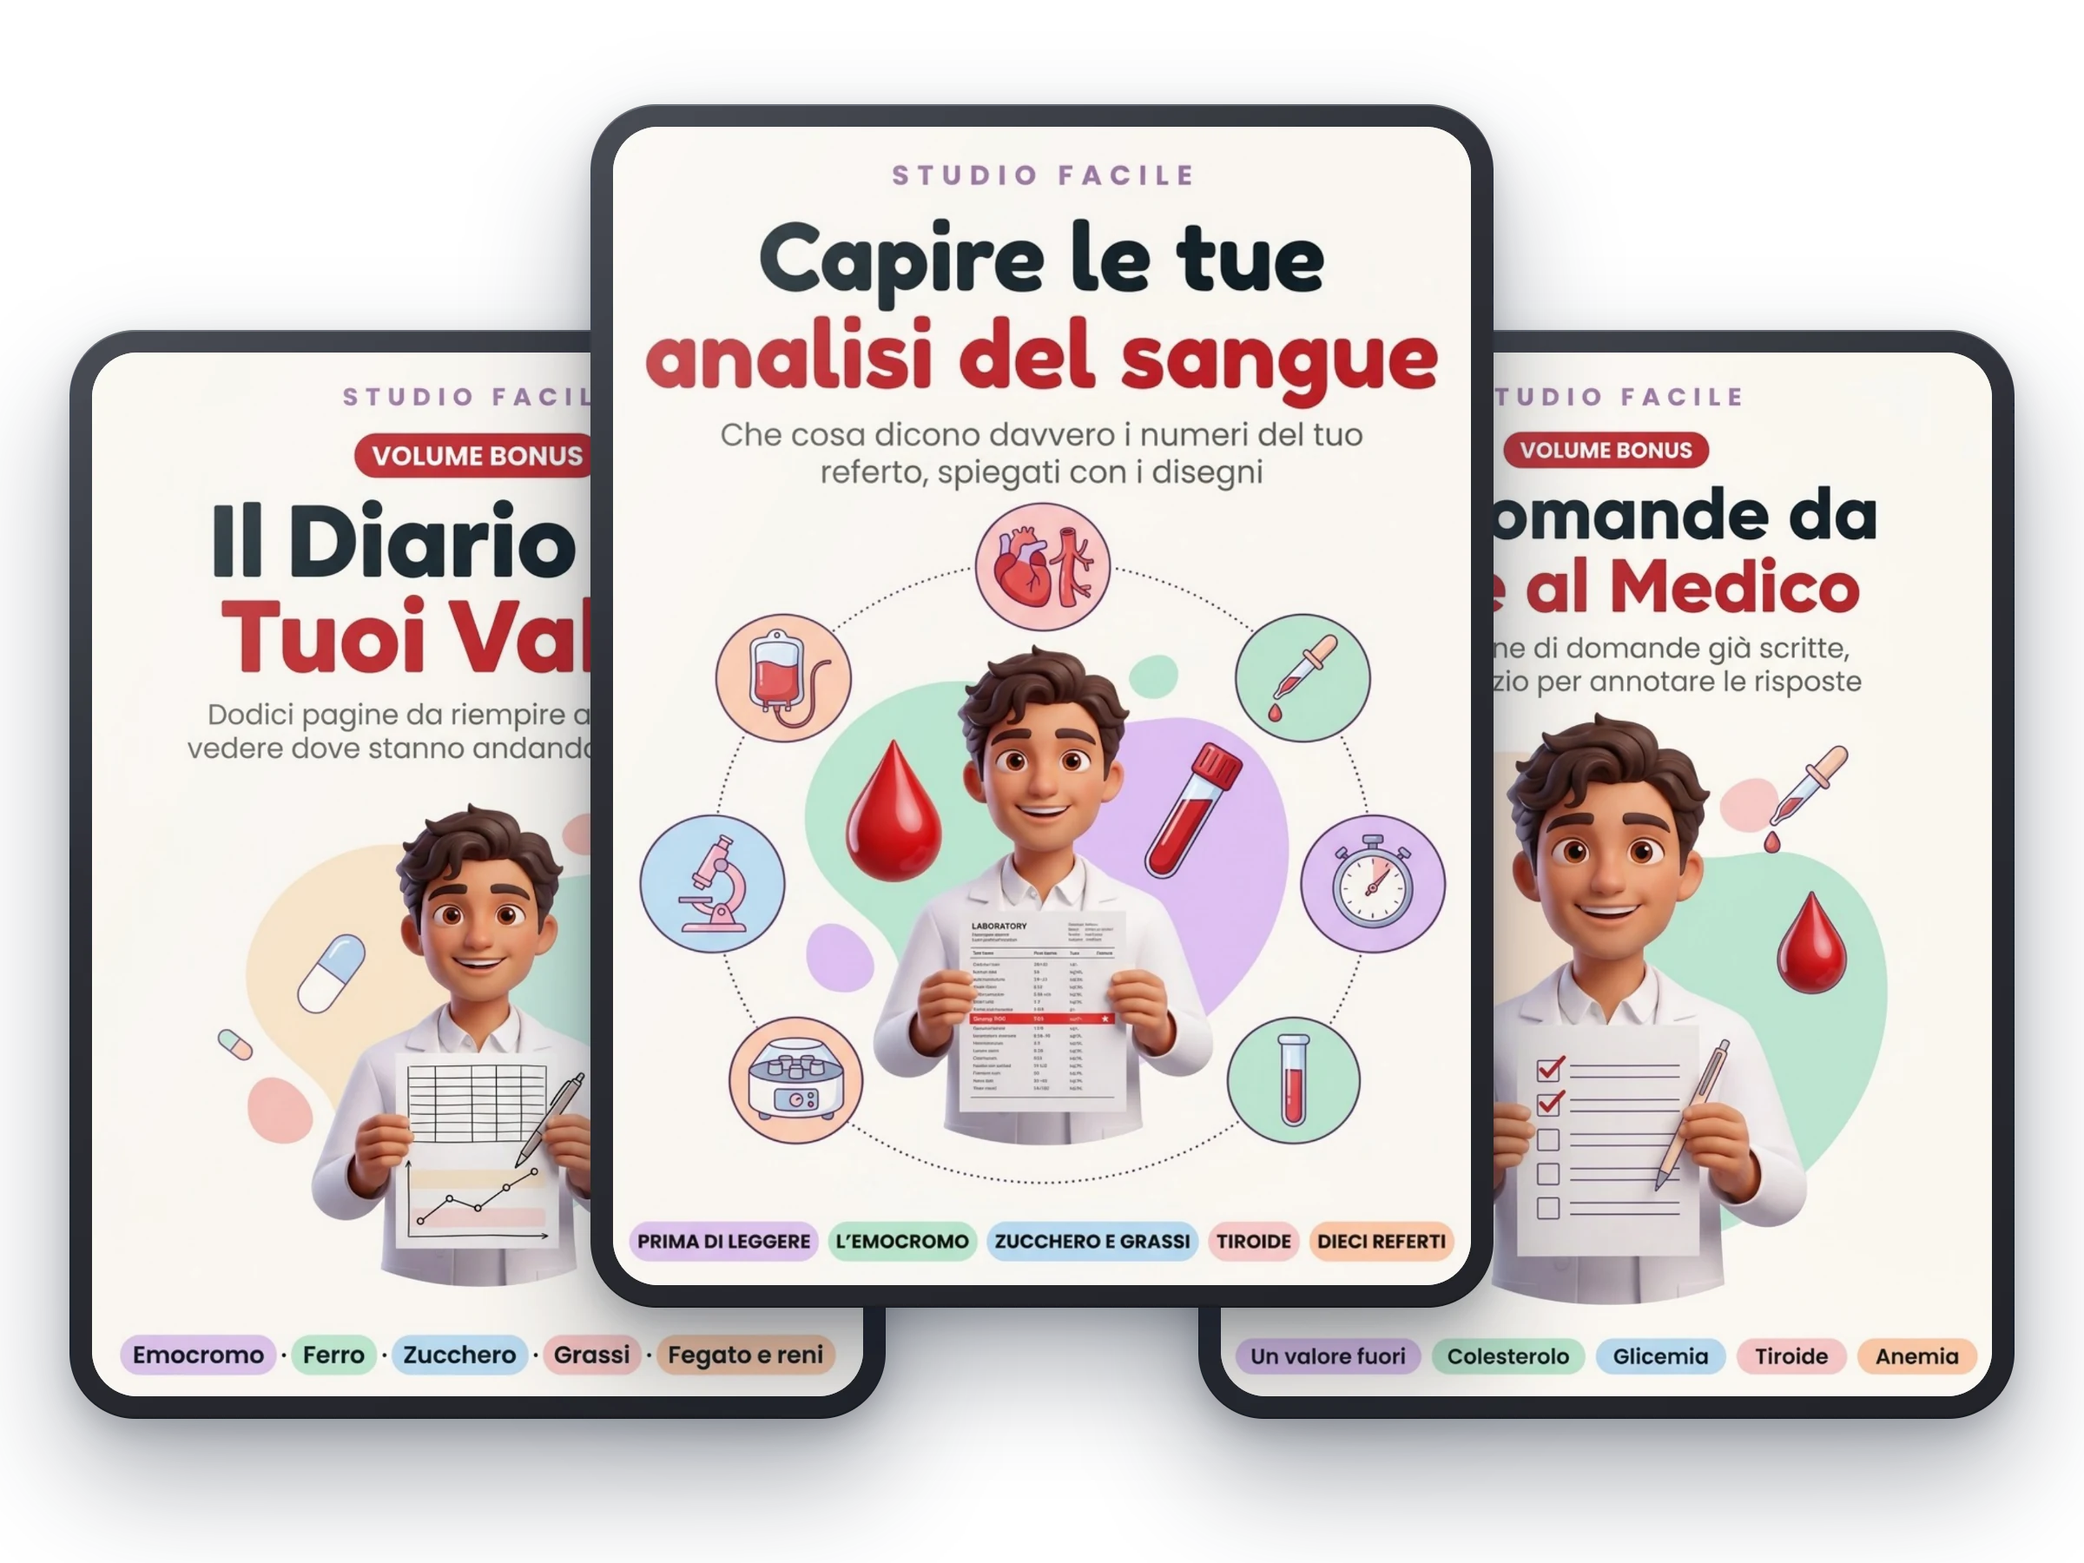
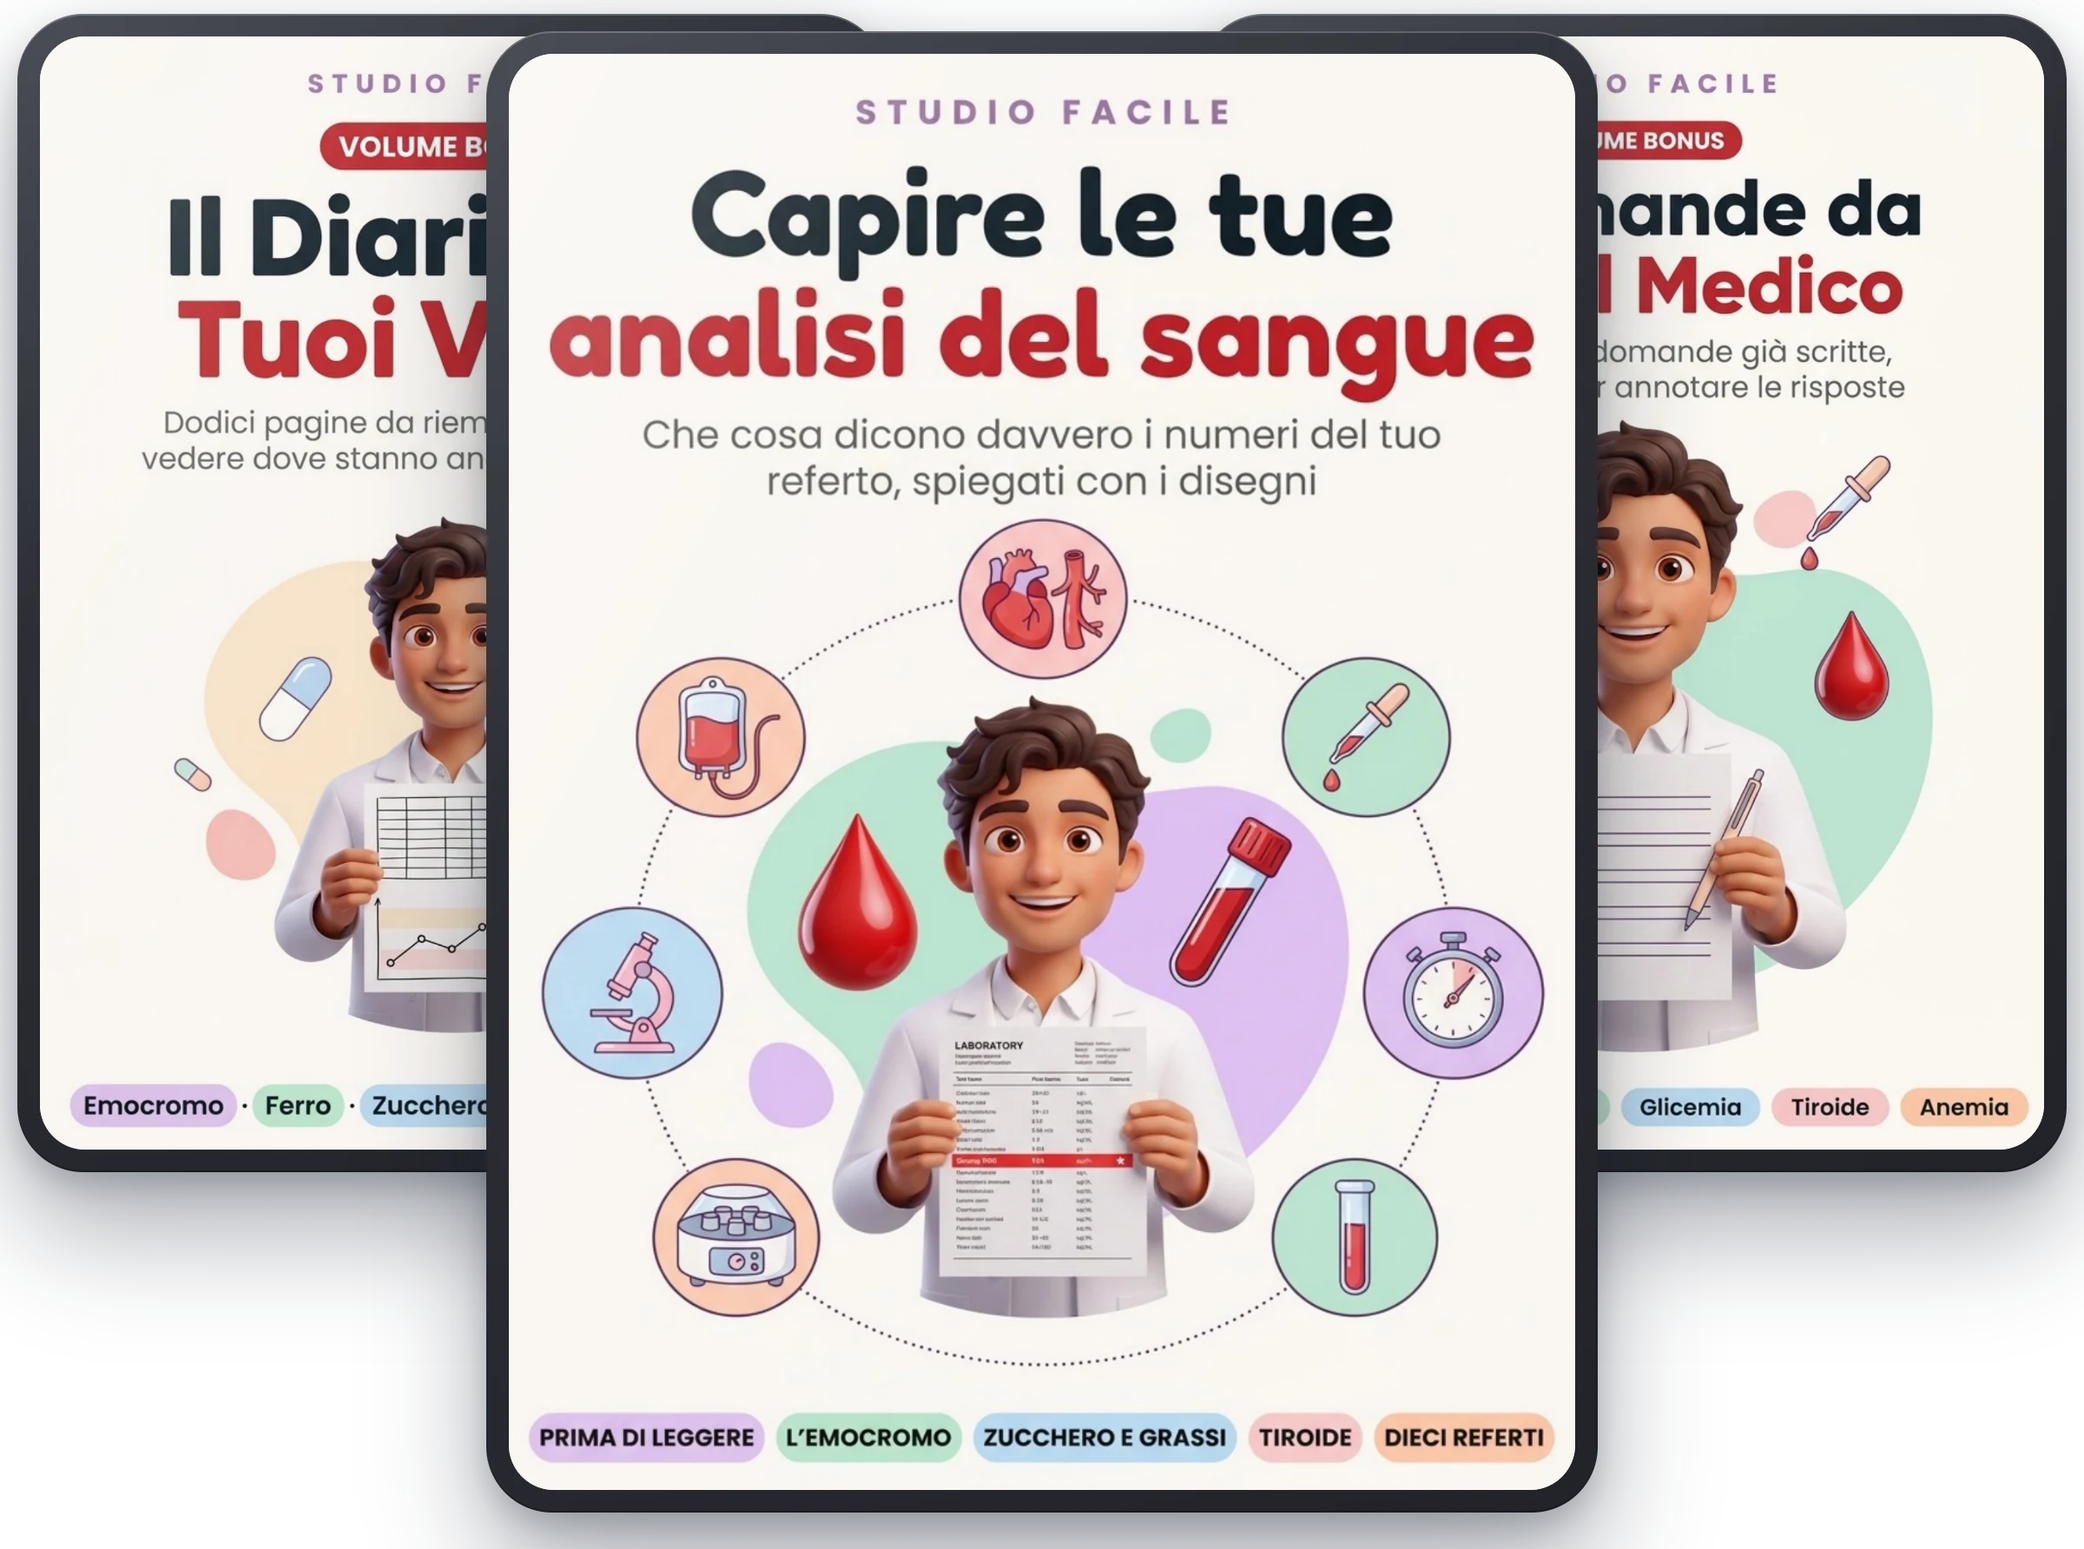
Hero come sulla home: stessa composizione, stesso dato, senza l'avviso sopra
Tre cose, tutte per allineare le due landing salute a studiofacilebook.com:

- Il mockup riprende le misure di hero-kit-v2: tela 1200x892, i tre tablet
  molto sovrapposti e quello centrale piu' alto. Prima erano distanziati e a
  schermo intero sembravano tre prodotti in fila invece di un kit.
- La prova sociale dice le stesse parole della home, copiate e non riscritte:
  «+11.978 studenti e professionisti della salute». La versione con «persone»
  faceva sembrare che fosse un altro numero.
- Via l'avviso «PDF, non e' un libro di carta» da sopra l'immagine: compare
  gia' tre volte piu' sotto, e li' rubava la prima riga all'hero.

diff --git a/farmaci.html b/farmaci.html
@@ -2128,29 +2128,20 @@
   <!-- HERO -->
   <section class="hero">
     <div class="hero-content">
-      <!-- L'AVVISO, SOPRA IL MOCKUP.
-           Chi chiede il rimborso credendo di aver comprato carta non legge
-           il corpo del testo: guarda l'immagine, che sembra un libro
-           stampato, e deduce. Quindi l'avviso deve stare dove finisce
-           l'occhio prima di arrivarci.
-           NON e' una pastiglia nera piena: su questo fondo blu stonava. E'
-           vetro — bianco al dieci per cento con il bordo giallo della
-           collana e l'icona gialla — cioe' lo stesso linguaggio della
-           barra dell'offerta qui sopra. Si vede da lontano e sembra parte
-           della pagina invece di un cartello appiccicato. -->
-      <p style="margin:0 0 10px;text-align:center;color:rgba(255,255,255,.92);
-                font-size:14.5px;font-weight:800;letter-spacing:.9px;
-                text-transform:uppercase;line-height:1.5">
-        PDF da scaricare <span style="opacity:.5">&middot;</span>
-        <span style="color:#f7cf49">non &egrave; un libro di carta</span>
-      </p>
+      <!-- NIENTE AVVISO SOPRA IL MOCKUP.
+           C'era, ed e' stato tolto: l'avviso «PDF, non e' un libro di
+           carta» compare gia' tre volte piu' sotto — nella riga sotto al
+           bottone dell'hero, nella scatola dell'offerta e sotto il bottone
+           finale — e li' basta. Sopra l'immagine rubava la prima riga
+           all'hero senza aggiungere niente che non fosse gia' detto.
+           Le tre menzioni le mette scripts/avviso_digitale.py. -->
       <div class="hero-mockup">
-        <img src="https://czocbnyoenjbpxmcqobn.supabase.co/storage/v1/object/public/algoritmia-img/studiofacile/mockups/farmaci/hero.webp?v=043a30e2" alt="I farmaci che prendi, spiegati — Studio Facile"
+        <img src="https://czocbnyoenjbpxmcqobn.supabase.co/storage/v1/object/public/algoritmia-img/studiofacile/mockups/farmaci/hero.webp?v=a7f59235" alt="I farmaci che prendi, spiegati — Studio Facile"
              width="1200" height="900" loading="eager" fetchpriority="high" decoding="async">
       </div>
       <p class="hero-social">
         <span class="stars" aria-hidden="true">★★★★★</span>
-        <span><strong>+11.978 persone</strong> usano già i materiali di Studio Facile</span>
+        <span><strong>+11.978 studenti e professionisti</strong> della salute</span>
       </p>
       <h1>Finalmente Sai Che Cosa Fanno <mark>Le Compresse Che Prendi</mark></h1>
       <p class="subheadline">La guida illustrata per chi apre il cassetto e trova cinque scatole: sa quando prenderle e non sa che cosa facciano. Nessuna dose, nessun nome commerciale, un disegno per pagina.</p>
@@ -2167,8 +2158,8 @@
       <div class="stats-grid">
         <div class="stat-item">
           <div class="icon"><svg aria-hidden="true" focusable="false" class="lc" viewBox="0 0 24 24" fill="none" stroke="currentColor" stroke-width="2" stroke-linecap="round" stroke-linejoin="round"><path d="M16 21v-2a4 4 0 0 0-4-4H6a4 4 0 0 0-4 4v2"/><path d="M16 3.128a4 4 0 0 1 0 7.744"/><path d="M22 21v-2a4 4 0 0 0-3-3.87"/><circle cx="9" cy="7" r="4"/></svg></div>
-          <strong>11.978 persone</strong>
-          <p>usano già i materiali illustrati di Studio Facile</p>
+          <strong>11.978 studenti e professionisti</strong>
+          <p>della salute usano già i materiali di Studio Facile</p>
         </div>
         <div class="stat-item">
           <div class="icon"><svg aria-hidden="true" focusable="false" class="lc" viewBox="0 0 24 24" fill="none" stroke="currentColor" stroke-width="2" stroke-linecap="round" stroke-linejoin="round"><path d="M4 19.5v-15A2.5 2.5 0 0 1 6.5 2H20v20H6.5a2.5 2.5 0 0 1 0-5H20"/></svg></div>
@@ -2243,7 +2234,7 @@
   <!-- TESTIMONIANZE -->
   <section class="section section-snug-top" aria-label="Opinioni di chi usa i materiali">
     <div class="container">
-      <h2 class="text-center" style="margin-bottom: 32px;">Cosa Dicono le Oltre 11.978 Persone Che Usano Già Studio Facile:</h2>
+      <h2 class="text-center" style="margin-bottom: 32px;">Cosa Dicono gli Oltre 11.978 Studenti e Professionisti Che Usano Già Studio Facile:</h2>
       
       <div class="testimonials-carousel-wrap" role="region" aria-label="Carosello delle opinioni">
         <button type="button" class="carousel-nav" data-dir="prev" data-target="testimonials-scroll" aria-label="Opinione precedente"><svg viewBox="0 0 24 24" fill="none" stroke="currentColor" stroke-width="2.4" stroke-linecap="round" stroke-linejoin="round" aria-hidden="true"><polyline points="15 18 9 12 15 6"></polyline></svg></button>
@@ -2355,7 +2346,7 @@
       <div class="bonus-grid">
         <div class="bonus-item-with-image">
           <div class="bonus-mockup">
-            <img src="https://czocbnyoenjbpxmcqobn.supabase.co/storage/v1/object/public/algoritmia-img/studiofacile/mockups/farmaci/bonus-tabella.webp?v=f938c33f" alt="La Tua Tabella dei Farmaci" width="760" height="1040" loading="lazy" decoding="async">
+            <img src="https://czocbnyoenjbpxmcqobn.supabase.co/storage/v1/object/public/algoritmia-img/studiofacile/mockups/farmaci/bonus-tabella.webp?v=f06e8b3d" alt="La Tua Tabella dei Farmaci" width="760" height="1040" loading="lazy" decoding="async">
           </div>
           <div class="bonus-text">
             <h3>BONUS 1: &ldquo;La Tua Tabella dei Farmaci&rdquo;</h3>
@@ -2381,7 +2372,7 @@
 
       <!-- DECISION BOX -->
       <div class="decision-box" id="offerta">
-        <img src="https://czocbnyoenjbpxmcqobn.supabase.co/storage/v1/object/public/algoritmia-img/studiofacile/mockups/farmaci/hero.webp?v=043a30e2" alt="Kit I farmaci che prendi, spiegati: il volume e i 2 bonus" class="db-mockup" width="1200" height="900" loading="lazy" decoding="async">
+        <img src="https://czocbnyoenjbpxmcqobn.supabase.co/storage/v1/object/public/algoritmia-img/studiofacile/mockups/farmaci/hero.webp?v=a7f59235" alt="Kit I farmaci che prendi, spiegati: il volume e i 2 bonus" class="db-mockup" width="1200" height="900" loading="lazy" decoding="async">
         <h3 class="db-title">Kit I farmaci che prendi, spiegati</h3>
         <ul class="db-checklist">
           <li><span class="db-check"><svg viewBox="0 0 24 24"><polyline points="20 6 9 17 4 12"/></svg></span>I farmaci che prendi, spiegati, 46 pagine illustrate<span class="db-price-val">21,90€</span></li>
@@ -2458,7 +2449,7 @@
         <div class="author-bio">
           <h3>Leandro Moretti</h3>
           <h4>Farmacista &middot; Fondatore di Studio Facile</h4>
-          <p>Fondatore di Studio Facile, la collana di materiali illustrati che ha già aiutato <strong>oltre 11.978 persone</strong> a rendere semplici argomenti che sembravano impossibili.</p>
+          <p>Fondatore di Studio Facile, la collana di materiali illustrati che ha già aiutato <strong>oltre 11.978 studenti e professionisti della salute</strong> a rendere semplici argomenti che sembravano impossibili.</p>
           <p>Il metodo è sempre lo stesso: <strong>chiarezza visiva e un argomento per pagina</strong>. Quello che era un muro di sigle diventa uno schema che si guarda e si capisce.</p>
           <p>«I farmaci che prendi, spiegati» porta questo metodo fuori dall'università, dove serve di più: <strong>alle persone che quel foglio ce l'hanno in mano davvero</strong>.</p>
         </div>

diff --git a/analisi.html b/analisi.html
@@ -2128,29 +2128,20 @@
   <!-- HERO -->
   <section class="hero">
     <div class="hero-content">
-      <!-- L'AVVISO, SOPRA IL MOCKUP.
-           Chi chiede il rimborso credendo di aver comprato carta non legge
-           il corpo del testo: guarda l'immagine, che sembra un libro
-           stampato, e deduce. Quindi l'avviso deve stare dove finisce
-           l'occhio prima di arrivarci.
-           NON e' una pastiglia nera piena: su questo fondo blu stonava. E'
-           vetro — bianco al dieci per cento con il bordo giallo della
-           collana e l'icona gialla — cioe' lo stesso linguaggio della
-           barra dell'offerta qui sopra. Si vede da lontano e sembra parte
-           della pagina invece di un cartello appiccicato. -->
-      <p style="margin:0 0 10px;text-align:center;color:rgba(255,255,255,.92);
-                font-size:14.5px;font-weight:800;letter-spacing:.9px;
-                text-transform:uppercase;line-height:1.5">
-        PDF da scaricare <span style="opacity:.5">&middot;</span>
-        <span style="color:#f7cf49">non &egrave; un libro di carta</span>
-      </p>
+      <!-- NIENTE AVVISO SOPRA IL MOCKUP.
+           C'era, ed e' stato tolto: l'avviso «PDF, non e' un libro di
+           carta» compare gia' tre volte piu' sotto — nella riga sotto al
+           bottone dell'hero, nella scatola dell'offerta e sotto il bottone
+           finale — e li' basta. Sopra l'immagine rubava la prima riga
+           all'hero senza aggiungere niente che non fosse gia' detto.
+           Le tre menzioni le mette scripts/avviso_digitale.py. -->
       <div class="hero-mockup">
-        <img src="https://czocbnyoenjbpxmcqobn.supabase.co/storage/v1/object/public/algoritmia-img/studiofacile/mockups/analisi/hero.webp?v=9298266c" alt="Capire le tue analisi del sangue — Studio Facile"
+        <img src="https://czocbnyoenjbpxmcqobn.supabase.co/storage/v1/object/public/algoritmia-img/studiofacile/mockups/analisi/hero.webp?v=4300dabb" alt="Capire le tue analisi del sangue — Studio Facile"
              width="1200" height="900" loading="eager" fetchpriority="high" decoding="async">
       </div>
       <p class="hero-social">
         <span class="stars" aria-hidden="true">★★★★★</span>
-        <span><strong>+11.978 persone</strong> usano già i materiali di Studio Facile</span>
+        <span><strong>+11.978 studenti e professionisti</strong> della salute</span>
       </p>
       <h1>Finalmente Capisci Che Cosa Dice <mark>Il Tuo Referto delle Analisi</mark></h1>
       <p class="subheadline">La guida illustrata per chi ritira gli esami del sangue, vede quattro asterischi e non sa se deve preoccuparsi. Scritta per chi non è medico, con un disegno per ogni pagina.</p>
@@ -2167,8 +2158,8 @@
       <div class="stats-grid">
         <div class="stat-item">
           <div class="icon"><svg aria-hidden="true" focusable="false" class="lc" viewBox="0 0 24 24" fill="none" stroke="currentColor" stroke-width="2" stroke-linecap="round" stroke-linejoin="round"><path d="M16 21v-2a4 4 0 0 0-4-4H6a4 4 0 0 0-4 4v2"/><path d="M16 3.128a4 4 0 0 1 0 7.744"/><path d="M22 21v-2a4 4 0 0 0-3-3.87"/><circle cx="9" cy="7" r="4"/></svg></div>
-          <strong>11.978 persone</strong>
-          <p>usano già i materiali illustrati di Studio Facile</p>
+          <strong>11.978 studenti e professionisti</strong>
+          <p>della salute usano già i materiali di Studio Facile</p>
         </div>
         <div class="stat-item">
           <div class="icon"><svg aria-hidden="true" focusable="false" class="lc" viewBox="0 0 24 24" fill="none" stroke="currentColor" stroke-width="2" stroke-linecap="round" stroke-linejoin="round"><path d="M4 19.5v-15A2.5 2.5 0 0 1 6.5 2H20v20H6.5a2.5 2.5 0 0 1 0-5H20"/></svg></div>
@@ -2243,7 +2234,7 @@
   <!-- TESTIMONIANZE -->
   <section class="section section-snug-top" aria-label="Opinioni di chi usa i materiali">
     <div class="container">
-      <h2 class="text-center" style="margin-bottom: 32px;">Cosa Dicono le Oltre 11.978 Persone Che Usano Già Studio Facile:</h2>
+      <h2 class="text-center" style="margin-bottom: 32px;">Cosa Dicono gli Oltre 11.978 Studenti e Professionisti Che Usano Già Studio Facile:</h2>
       
       <div class="testimonials-carousel-wrap" role="region" aria-label="Carosello delle opinioni">
         <button type="button" class="carousel-nav" data-dir="prev" data-target="testimonials-scroll" aria-label="Opinione precedente"><svg viewBox="0 0 24 24" fill="none" stroke="currentColor" stroke-width="2.4" stroke-linecap="round" stroke-linejoin="round" aria-hidden="true"><polyline points="15 18 9 12 15 6"></polyline></svg></button>
@@ -2381,7 +2372,7 @@
 
       <!-- DECISION BOX -->
       <div class="decision-box" id="offerta">
-        <img src="https://czocbnyoenjbpxmcqobn.supabase.co/storage/v1/object/public/algoritmia-img/studiofacile/mockups/analisi/hero.webp?v=9298266c" alt="Kit Capire le tue analisi del sangue: il volume e i 2 bonus" class="db-mockup" width="1200" height="900" loading="lazy" decoding="async">
+        <img src="https://czocbnyoenjbpxmcqobn.supabase.co/storage/v1/object/public/algoritmia-img/studiofacile/mockups/analisi/hero.webp?v=4300dabb" alt="Kit Capire le tue analisi del sangue: il volume e i 2 bonus" class="db-mockup" width="1200" height="900" loading="lazy" decoding="async">
         <h3 class="db-title">Kit Capire le tue analisi del sangue</h3>
         <ul class="db-checklist">
           <li><span class="db-check"><svg viewBox="0 0 24 24"><polyline points="20 6 9 17 4 12"/></svg></span>Capire le tue analisi del sangue, 51 pagine illustrate<span class="db-price-val">21,90€</span></li>
@@ -2458,7 +2449,7 @@
         <div class="author-bio">
           <h3>Leandro Moretti</h3>
           <h4>Farmacista &middot; Fondatore di Studio Facile</h4>
-          <p>Fondatore di Studio Facile, la collana di materiali illustrati che ha già aiutato <strong>oltre 11.978 persone</strong> a rendere semplici argomenti che sembravano impossibili.</p>
+          <p>Fondatore di Studio Facile, la collana di materiali illustrati che ha già aiutato <strong>oltre 11.978 studenti e professionisti della salute</strong> a rendere semplici argomenti che sembravano impossibili.</p>
           <p>Il metodo è sempre lo stesso: <strong>chiarezza visiva e un argomento per pagina</strong>. Quello che era un muro di sigle diventa uno schema che si guarda e si capisce.</p>
           <p>«Capire le tue analisi del sangue» porta questo metodo fuori dall'università, dove serve di più: <strong>alle persone che quel foglio ce l'hanno in mano davvero</strong>.</p>
         </div>
